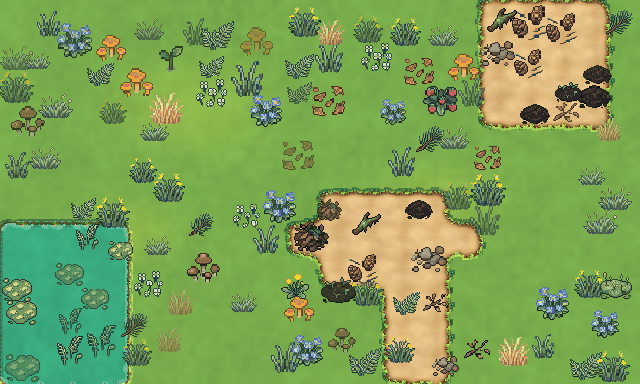
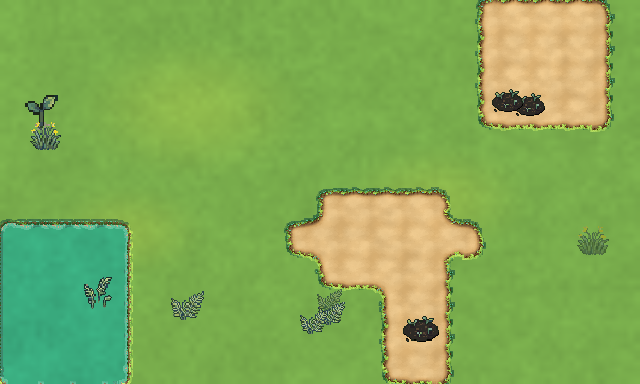
Ground scatter: patches, not confetti
The first bake scattered 115 decals uniformly — too noisy, broke the
60-70% open-grass rule. Reworked to measured grammar: ~7 homogeneous
wear patches (one dominant decal kind each, 4-8 items, r26px), quiet
pool (tufts/flowers/sprouts only — berries/mushrooms read as items
not wear), 90px centre separation.

diff --git a/tools/tb_ground_scatter.py b/tools/tb_ground_scatter.py
@@ -26,16 +26,13 @@ from PIL import Image
 
 A = "game/assets/pinewatch/decals/"
 
-# family pools: (filename, weight)
+# family pools: (filename, weight) — wear, not items: no berries,
+# mushrooms or gear mid-field (those read as objects, not texture)
 POOLS = {
-    "G": [("tuft_grass_a.png", 5), ("tuft_grass_b.png", 5), ("tuft_grass_c.png", 5),
-          ("tuft_grass_dry.png", 2), ("decal_flowers_white.png", 3),
-          ("decal_flowers_purple.png", 2), ("decal_dandelion.png", 2),
-          ("decal_fern_frond.png", 3), ("decal_fern_leaf.png", 2),
-          ("decal_mushroom_brown.png", 1), ("decal_mushroom_orange.png", 1),
-          ("decal_berries_red.png", 1), ("decal_strawberry.png", 1),
-          ("tuft_moss_patch.png", 2), ("tuft_leaf_litter.png", 2),
-          ("decal_leaf_pile.png", 1), ("decal_sprout.png", 2)],
+    "G": [("tuft_grass_a.png", 6), ("tuft_grass_b.png", 6), ("tuft_grass_c.png", 6),
+          ("tuft_grass_dry.png", 3), ("decal_flowers_white.png", 2),
+          ("decal_dandelion.png", 2), ("decal_fern_frond.png", 2),
+          ("tuft_leaf_litter.png", 2), ("decal_sprout.png", 3)],
     "D": [("decal_dirt_mound.png", 3), ("decal_soil_mound.png", 2),
           ("decal_soil_patch.png", 2), ("decal_pebbles.png", 3),
           ("decal_pebbles_moss.png", 1), ("decal_twig.png", 2),
@@ -44,8 +41,10 @@ POOLS = {
     "W": [("decal_duckweed.png", 4), ("decal_lily_pad.png", 2)],
 }
 TILE = 32
-MIN_DIST = 18          # px between decal centers — keeps scatter even
-                       # (Eastward reads sparse+regular, not clumped)
+MIN_DIST = 10          # px inside a patch — tight enough to read as one mass
+PATCH_R = 26           # patch radius
+PATCHES = 7            # localized wear patches — Eastward grammar is
+                       # homogeneous patches on open grass, not confetti
 
 
 def load_decal(name, scale):
@@ -123,29 +122,44 @@ def main():
 
     layer = Image.new("RGBA", (W, H), (0, 0, 0, 0))
     placed = {"G": 0, "D": 0, "W": 0}
+
+    # --- patch pass: a few homogeneous wear patches, not confetti ---
+    centres = []
     tries = 0
-    while sum(placed.values()) < count and tries < count * 20:
+    while len(centres) < PATCHES and tries < 400:
         tries += 1
-        x = int(rng.integers(16, W - 16))
-        y = int(rng.integers(16, H - 16))
-        if rng.random() > dens[y, x]:
-            continue
-        if too_close(x, y):
-            continue
-        fam = family_at(x, y)
+        cx = int(rng.integers(24, W - 24))
+        cy = int(rng.integers(24, H - 24))
+        fam = family_at(cx, cy)
         if fam not in POOLS:
             continue
-        d = load_decal(pick(POOLS[fam], rng), rng.uniform(0.85, 1.2))
-        if box_hits_keepout(x, y, d.width, d.height):
+        if any((cx - px) ** 2 + (cy - py) ** 2 < 90 ** 2 for px, py, _ in centres):
             continue
-        # slight alpha jitter so repeats don't read as stamps
-        if rng.random() < 0.3:
-            a = np.asarray(d).copy()
-            a[..., 3] = (a[..., 3].astype(float) * rng.uniform(0.75, 1.0)).astype(np.uint8)
-            d = Image.fromarray(a)
-        layer.paste(d, (x - d.width // 2, y - d.height // 2), d)
-        spaced[int(y // MIN_DIST), int(x // MIN_DIST)] = True
-        placed[fam] += 1
+        centres.append((cx, cy, fam))
+
+    for cx, cy, fam in centres:
+        pool = POOLS[fam]
+        hero = pick(pool, rng)          # one dominant kind per patch —
+                                        # wear reads as a coherent mass
+        n = int(rng.integers(4, 8))
+        for _ in range(n):
+            x = int(cx + (rng.random() + rng.random() - 1) * PATCH_R)
+            y = int(cy + (rng.random() + rng.random() - 1) * PATCH_R)
+            if not (8 < x < W - 8 and 8 < y < H - 8):
+                continue
+            if family_at(x, y) != fam or too_close(x, y):
+                continue
+            name = hero if rng.random() < 0.7 else pick(pool, rng)
+            d = load_decal(name, rng.uniform(0.85, 1.2))
+            if box_hits_keepout(x, y, d.width, d.height):
+                continue
+            if rng.random() < 0.3:
+                a = np.asarray(d).copy()
+                a[..., 3] = (a[..., 3].astype(float) * rng.uniform(0.75, 1.0)).astype(np.uint8)
+                d = Image.fromarray(a)
+            layer.paste(d, (x - d.width // 2, y - d.height // 2), d)
+            spaced[int(y // MIN_DIST), int(x // MIN_DIST)] = True
+            placed[fam] += 1
 
     out = Image.alpha_composite(base, layer).convert("RGB")
     out.save(outp)
